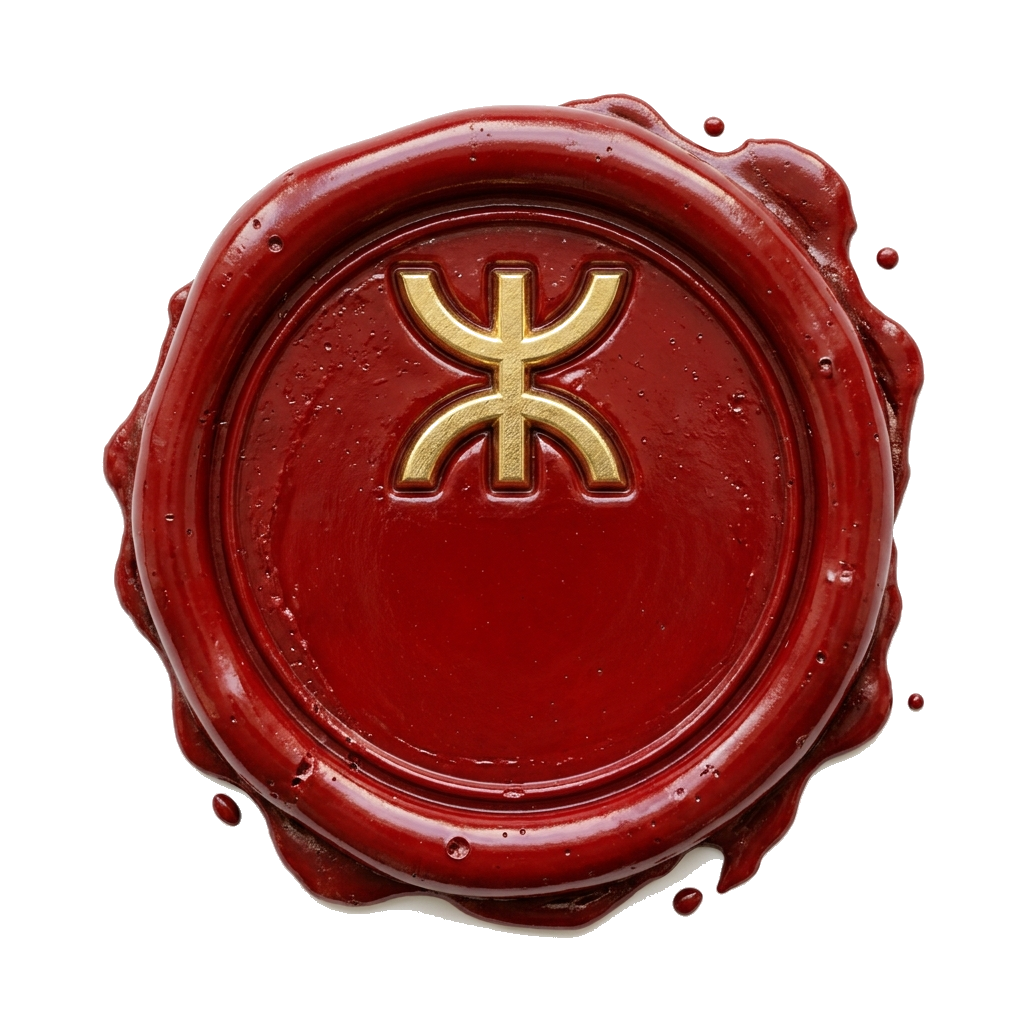
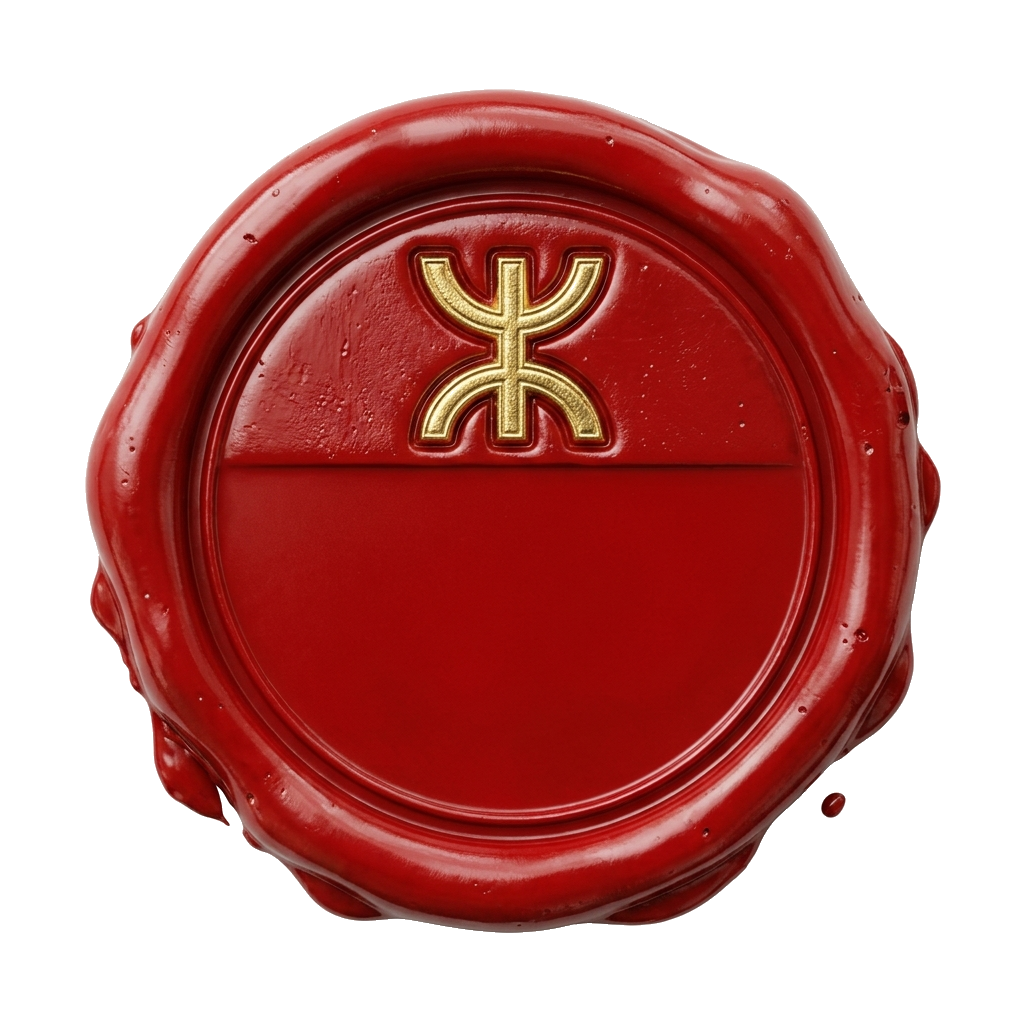
Motif remonté dans le tiers supérieur

diff --git a/admin.html b/admin.html
@@ -299,14 +299,6 @@
             <img src="assets/wedding_beach_entrance.png" alt="Beach Entrance">
             <div class="photo-card-label">🏖️ شاطئ البحر</div>
           </div>
-          <div class="photo-card" data-photo="outdoor_french_wedding" onclick="selectHallPhoto('outdoor_french_wedding', true)">
-            <img src="assets/outdoor_french_wedding.png" alt="French Wedding">
-            <div class="photo-card-label">🏰 زفاف فرنسي خارجي</div>
-          </div>
-          <div class="photo-card" data-photo="outdoor_seaside_wedding" onclick="selectHallPhoto('outdoor_seaside_wedding', true)">
-            <img src="assets/outdoor_seaside_wedding.png" alt="Seaside Wedding">
-            <div class="photo-card-label">🌊 ساحل البحر</div>
-          </div>
         </div>
       </div>
 
@@ -350,14 +342,8 @@
             <img src="assets/wedding_beach_entrance.png" alt="Beach Entrance">
             <div class="photo-card-label">🏖️ شاطئ البحر</div>
           </div>
-          <div class="photo-card closing-photo-card" data-closing-photo="outdoor_french_wedding" onclick="selectClosingPhoto('outdoor_french_wedding', true)">
-            <img src="assets/outdoor_french_wedding.png" alt="French Wedding">
-            <div class="photo-card-label">🏰 زفاف فرنسي خارجي</div>
-          </div>
-          <div class="photo-card closing-photo-card" data-closing-photo="outdoor_seaside_wedding" onclick="selectClosingPhoto('outdoor_seaside_wedding', true)">
-            <img src="assets/outdoor_seaside_wedding.png" alt="Seaside Wedding">
-            <div class="photo-card-label">🌊 ساحل البحر</div>
-          </div>
+        </div>
+      </div>
         </div>
       </div>
     </div>

diff --git a/style.css b/style.css
@@ -408,29 +408,29 @@ body:not(.env-open) {
   justify-content: flex-end;
   width: 100%;
   height: 100%;
-  padding-bottom: 14px;
+  padding-bottom: 18px;
 }
 
 #seal-3d-monogram-text .seal-sub-line {
-  width: 42px;
+  width: 44px;
   height: 1.6px;
   background: linear-gradient(90deg, transparent, #ffd700 20%, #ffffff 50%, #ffd700 80%, transparent);
-  margin-bottom: 4px;
+  margin-bottom: 3px;
   opacity: 0.95;
   box-shadow: 0 1px 3px rgba(0, 0, 0, 0.9);
 }
 
 #seal-3d-monogram-text .seal-sub-bride-name {
   font-family: 'Amiri', 'Scheherazade New', serif;
-  font-size: 1.15rem;
-  font-weight: 800;
-  color: #fff5c0;
+  font-size: 1.3rem;
+  font-weight: 900;
+  color: #3b280c;
   line-height: 1.1;
   letter-spacing: 0.5px;
   text-shadow:
-    0 1.5px 3px rgba(0, 0, 0, 0.95),
-    -1px -1px 1px rgba(0, 0, 0, 0.9),
-    0 0 10px rgba(255, 215, 0, 0.85);
+    -1.5px -2px 1.5px rgba(0, 0, 0, 0.95),
+    1.5px 1.5px 1.2px rgba(255, 235, 170, 0.9),
+    0 0 5px rgba(180, 130, 40, 0.4);
   user-select: none;
 }
 

diff --git a/app.js b/app.js
@@ -1624,7 +1624,7 @@ function _updatePersonalizedInviteDesc() {
 
   const cleanTitle = title.replace('إلى ', '').trim();
   const titlePrefix = cleanTitle ? cleanTitle + ' ' : '';
-  inviteDescEl.innerHTML = `بدعوة <span class="invite-guest-name">${titlePrefix}${name}</span> لحضور حفل الوطية`;
+  inviteDescEl.innerHTML = `بدعوة <span class="invite-guest-name">${titlePrefix}${name}</span> لحضور حفل وطية`;
 }
 
 function readAndApplyGuestParam() {